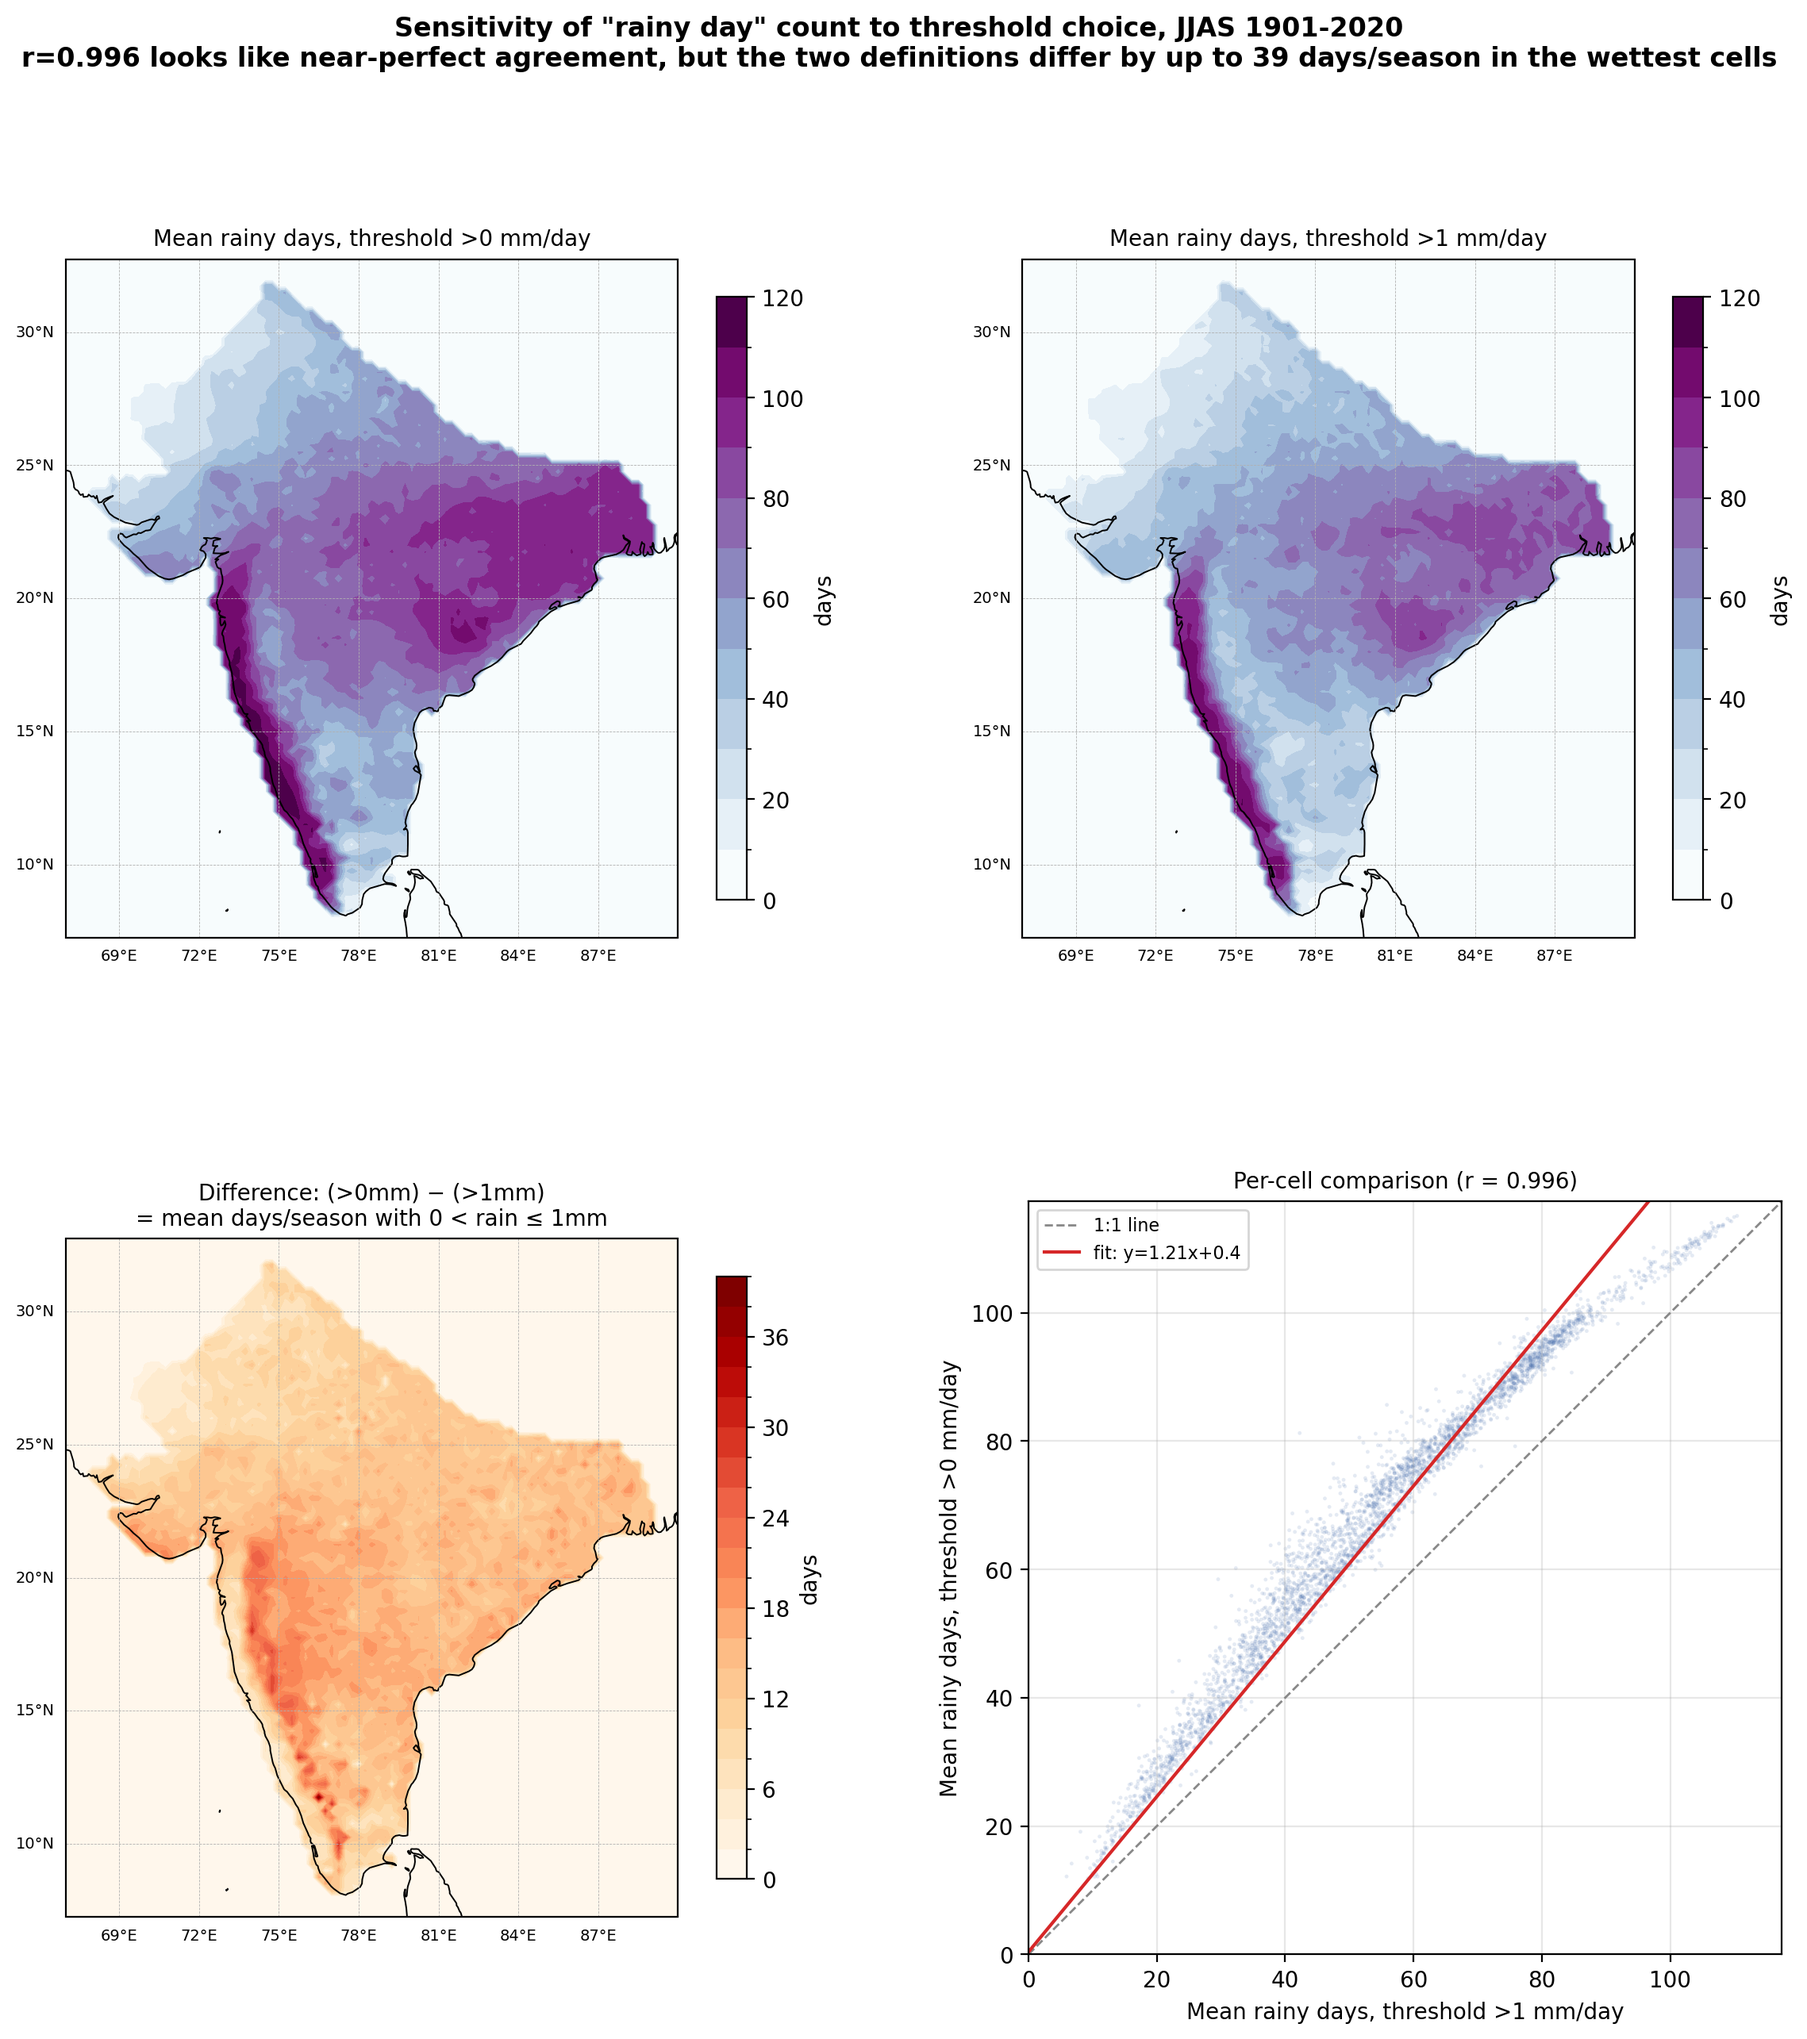
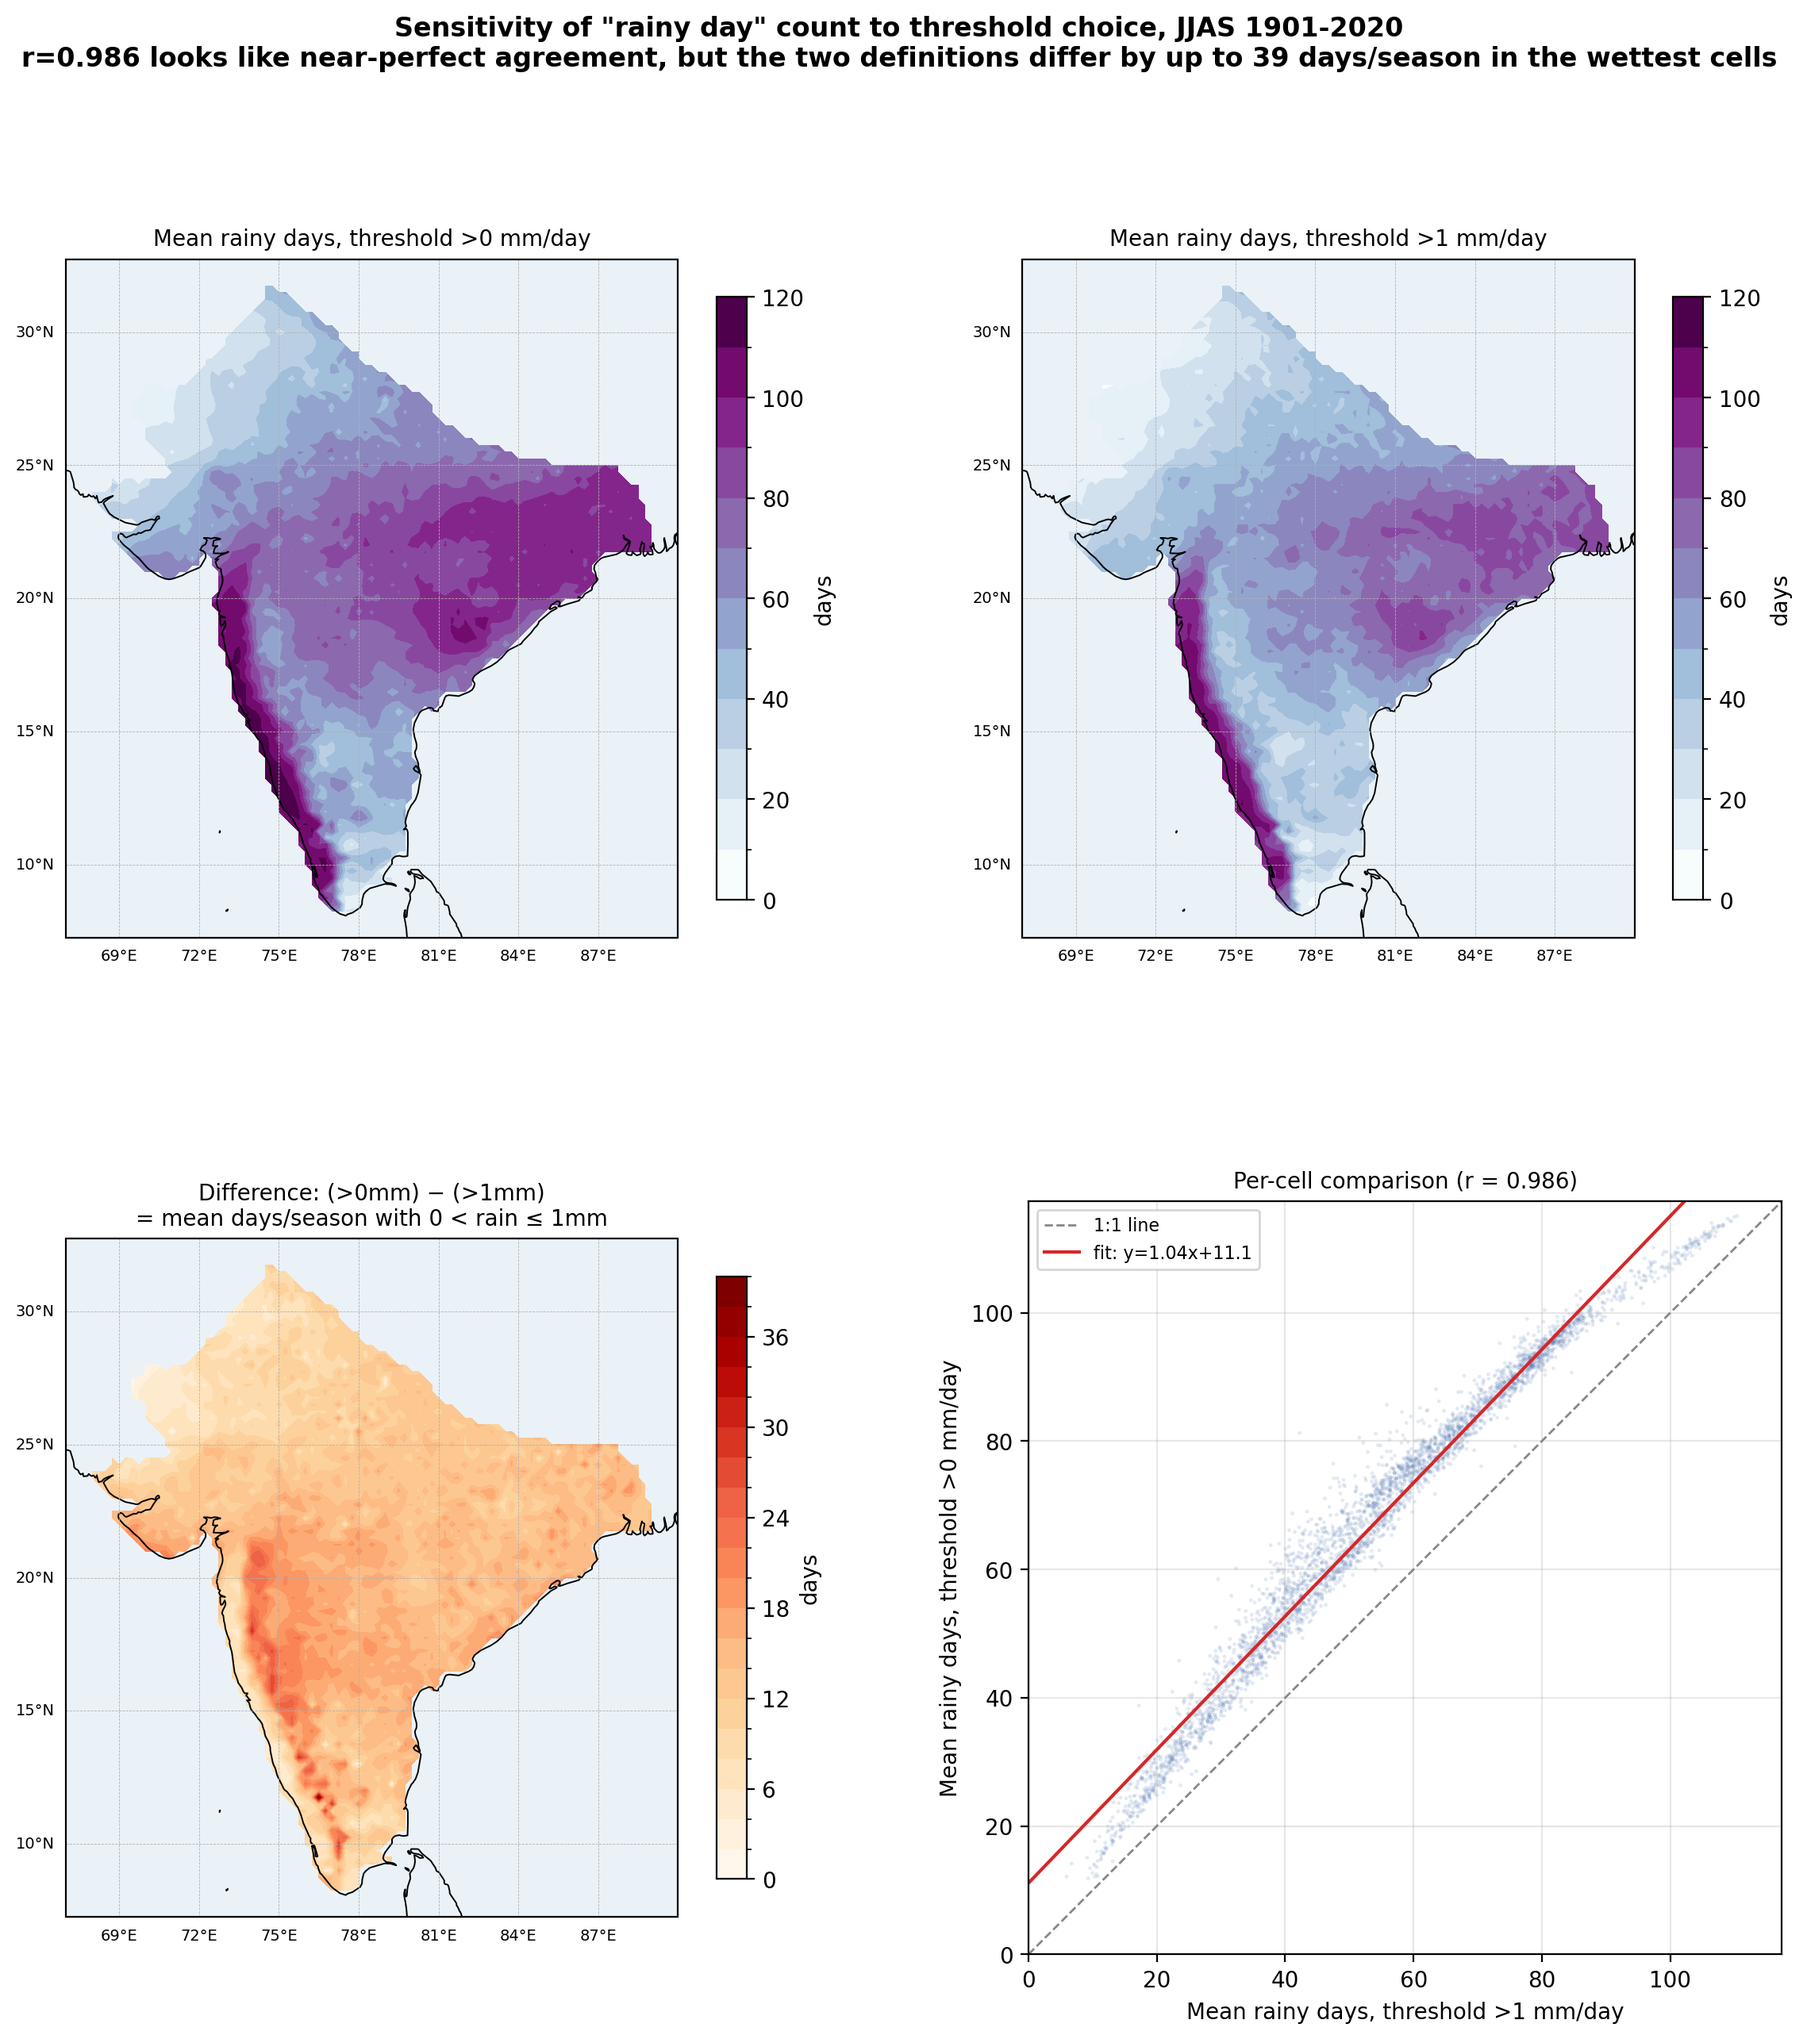
Fix out-of-domain cells silently counting as 0 in rainy-day scripts
plot_jjas_rainy_days_intensity.py / _0mm.py / _1mm.py and
compare_rainy_day_thresholds.py all had the same bug later caught and fixed
in compute_airi_indices.py: (precip > threshold).sum() doesn't propagate NaN
for the ~13,800 cells outside India (NaN > threshold is False, not NaN), so
those cells silently read as "0 rainy days" instead of being excluded.

This wasn't just cosmetic - the maps were shading the full rectangular grid
extent instead of India's true shape, and compare_rainy_day_thresholds.py's
correlation/regression were computed over all 17,415 cells (13,817 of them
non-India phantom (0,0) points), which changed the actual conclusion:

  before fix: r=0.996, slope=1.21 (looked like a wetness-proportional bias)
  after fix:  r=0.986, slope=1.04, intercept=11.1 (mostly a constant ~11-13
              day offset between the >0mm and >1mm thresholds, uniform across
              most of India, not concentrated in the wettest cells)

All four scripts and their figures regenerated. CLAUDE.md updated with the
corrected numbers and a pointer to apply this fix from the start in any new
rainy-day-threshold script.

diff --git a/compare_rainy_day_thresholds.py b/compare_rainy_day_thresholds.py
@@ -12,7 +12,7 @@ NOT a great primary metric here, even though it's a common first instinct for
 the same underlying climatological wet/dry gradient (Western Ghats wet,
 NW India dry, etc.), so they will correlate very highly almost by
 construction, regardless of how much the threshold choice actually changes
-the day count. Run this script and you'll see r ~ 0.996 - technically true,
+the day count. Run this script and you'll see r ~ 0.99 - technically true,
 but it mostly just confirms both maps recognize the Western Ghats as wet,
 which was never in question.
 
@@ -38,9 +38,15 @@ ds = xr.open_dataset('data/rainfall/imd_rain_daily_0p25_monsoon-masked_1901-2020
 precip = ds['precip']
 jjas = precip.sel(time=precip['time.month'].isin([6, 7, 8, 9]))
 n_years = len(np.unique(jjas['time.year'].values))
+valid = ds['monsoon_mask'].notnull()
 
-days_0mm = (jjas > 0).sum(dim='time') / n_years
-days_1mm = (jjas > 1).sum(dim='time') / n_years
+# .where(valid): a boolean mask's .sum() doesn't propagate NaN for cells outside
+# India (NaN > threshold is False, not NaN) - without this, ~13,800 non-India
+# cells would read as "0 rainy days" for both thresholds and get pulled into
+# the correlation/regression below as thousands of trivially-agreeing (0,0)
+# points, inflating r and distorting the fitted slope. See CLAUDE.md.
+days_0mm = ((jjas > 0).sum(dim='time') / n_years).where(valid)
+days_1mm = ((jjas > 1).sum(dim='time') / n_years).where(valid)
 diff = days_0mm - days_1mm  # = mean days/season with 0 < rain <= 1mm
 
 a = days_0mm.values.ravel()

diff --git a/plot_jjas_rainy_days_intensity.py b/plot_jjas_rainy_days_intensity.py
@@ -24,6 +24,7 @@ ds = xr.open_dataset('data/rainfall/imd_rain_daily_0p25_monsoon-masked_1901-2020
 precip = ds['precip']
 jjas = precip.sel(time=precip['time.month'].isin([6, 7, 8, 9]))
 n_years = len(np.unique(jjas['time.year'].values))
+valid = ds['monsoon_mask'].notnull()
 
 RAINY_DAY_THRESHOLD = 2.5  # mm/day, standard IMD "rainy day" definition
 rainy_mask = jjas >= RAINY_DAY_THRESHOLD
@@ -32,11 +33,14 @@ rainy_mask = jjas >= RAINY_DAY_THRESHOLD
 # all years divided by number of years (equivalent to averaging each year's own
 # count, since this is a simple sum - unlike the pooled-ratio approach needed
 # for fractions in plot_jjas_rainfall_fraction.py).
-mean_rainy_days = rainy_mask.sum(dim='time') / n_years
+# .where(valid): a boolean mask's .sum() doesn't propagate NaN for cells outside
+# India (NaN >= threshold is False, not NaN), so those cells would otherwise
+# silently read as "0 rainy days" instead of being excluded - see CLAUDE.md.
+mean_rainy_days = (rainy_mask.sum(dim='time') / n_years).where(valid)
 
 # Mean intensity on rainy days, pooled across all years directly (the 'time'
 # dimension already spans all 120 years' JJAS days).
-mean_intensity = jjas.where(rainy_mask).mean(dim='time')
+mean_intensity = jjas.where(rainy_mask).mean(dim='time').where(valid)
 
 print(f"{n_years} years | mean rainy days range: {float(mean_rainy_days.min()):.1f}-{float(mean_rainy_days.max()):.1f} days "
       f"| mean intensity range: {float(mean_intensity.min()):.1f}-{float(mean_intensity.max()):.1f} mm/day")

diff --git a/plot_jjas_rainy_days_0mm.py b/plot_jjas_rainy_days_0mm.py
@@ -21,11 +21,15 @@ ds = xr.open_dataset('data/rainfall/imd_rain_daily_0p25_monsoon-masked_1901-2020
 precip = ds['precip']
 jjas = precip.sel(time=precip['time.month'].isin([6, 7, 8, 9]))
 n_years = len(np.unique(jjas['time.year'].values))
+valid = ds['monsoon_mask'].notnull()
 
 RAINY_DAY_THRESHOLD = 0  # mm/day - any measurable (nonzero) rainfall
 rainy_mask = jjas > RAINY_DAY_THRESHOLD
-mean_rainy_days = rainy_mask.sum(dim='time') / n_years
-mean_intensity = jjas.where(rainy_mask).mean(dim='time')
+# .where(valid): a boolean mask's .sum() doesn't propagate NaN for cells outside
+# India (NaN > threshold is False, not NaN), so those cells would otherwise
+# silently read as "0 rainy days" instead of being excluded - see CLAUDE.md.
+mean_rainy_days = (rainy_mask.sum(dim='time') / n_years).where(valid)
+mean_intensity = jjas.where(rainy_mask).mean(dim='time').where(valid)
 
 print(f"{n_years} years | threshold >{RAINY_DAY_THRESHOLD} mm/day | "
       f"mean rainy days range: {float(mean_rainy_days.min()):.1f}-{float(mean_rainy_days.max()):.1f} days "

diff --git a/plot_jjas_rainy_days_1mm.py b/plot_jjas_rainy_days_1mm.py
@@ -21,11 +21,15 @@ ds = xr.open_dataset('data/rainfall/imd_rain_daily_0p25_monsoon-masked_1901-2020
 precip = ds['precip']
 jjas = precip.sel(time=precip['time.month'].isin([6, 7, 8, 9]))
 n_years = len(np.unique(jjas['time.year'].values))
+valid = ds['monsoon_mask'].notnull()
 
 RAINY_DAY_THRESHOLD = 1  # mm/day
 rainy_mask = jjas > RAINY_DAY_THRESHOLD
-mean_rainy_days = rainy_mask.sum(dim='time') / n_years
-mean_intensity = jjas.where(rainy_mask).mean(dim='time')
+# .where(valid): a boolean mask's .sum() doesn't propagate NaN for cells outside
+# India (NaN > threshold is False, not NaN), so those cells would otherwise
+# silently read as "0 rainy days" instead of being excluded - see CLAUDE.md.
+mean_rainy_days = (rainy_mask.sum(dim='time') / n_years).where(valid)
+mean_intensity = jjas.where(rainy_mask).mean(dim='time').where(valid)
 
 print(f"{n_years} years | threshold >{RAINY_DAY_THRESHOLD} mm/day | "
       f"mean rainy days range: {float(mean_rainy_days.min()):.1f}-{float(mean_rainy_days.max()):.1f} days "

diff --git a/CLAUDE.md b/CLAUDE.md
@@ -111,4 +111,9 @@ If a plotting script mysteriously produces no output and no error, check `$LASTE
   outside the valid India domain silently count as `False`/0 rather than NaN (NaN comparisons are always
   False) - explicitly `.where(monsoon_mask.notnull())` the result before spatially averaging, or invalid
   cells will quietly dilute the average instead of being excluded. See `compute_airi_indices.py` for the
-  pattern.
+  pattern. This bug was originally introduced in `plot_jjas_rainy_days_intensity.py` / `_0mm.py` / `_1mm.py`
+  / `compare_rainy_day_thresholds.py` (all fixed retroactively once found) - it didn't just shift numbers
+  slightly, it changed the actual conclusion: the corrected regression between the >0mm and >1mm fields
+  is a roughly constant ~11-13 day offset (slope ~1.04), not the proportional/wetness-scaling bias the
+  buggy version suggested (slope ~1.21). If you add another rainy-day-threshold script, apply this fix
+  from the start rather than after the fact.
